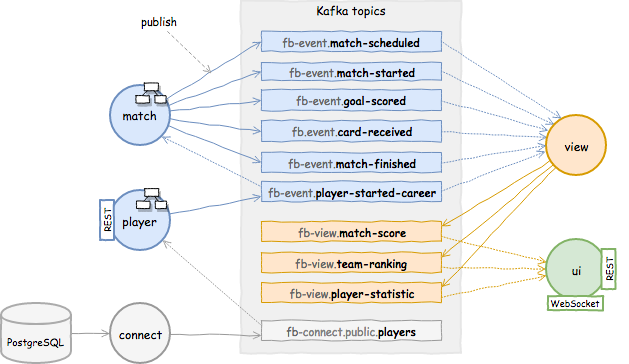
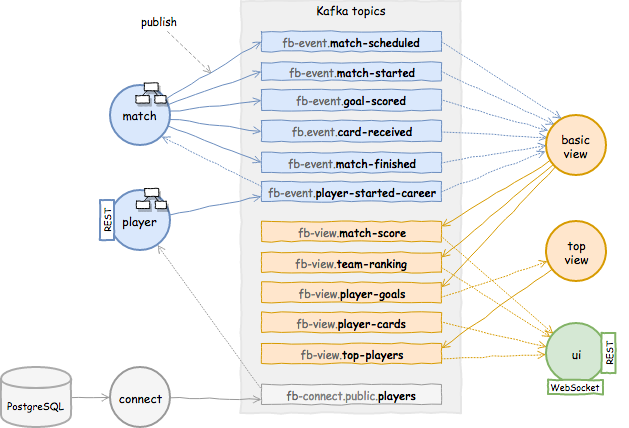
Split 'view' service into 'view-basic' and 'view-top'

diff --git a/football-ui/src/main/resources/static/index.html b/football-ui/src/main/resources/static/index.html
@@ -41,12 +41,12 @@
                 onUpdate(matchScore.matchId, text, 'MatchScore', 30);
             });
             stompClient.subscribe('/topic/TeamRanking', function(payload) {
-                var teamRanking = JSON.parse(payload.body);
-                var text = document.createTextNode(teamRanking.clubId + ' ' + teamRanking.matchesPlayed + ' '
-                    + teamRanking.won + ' ' + teamRanking.drawn + ' ' + teamRanking.lose + ' '
-                    + teamRanking.goalsFor + ' ' + teamRanking.goalsAgainst + ' '
-                    /* + teamRanking.goalsDifference + ' ' + teamRanking.points */);
-                onUpdate(teamRanking.clubId, text, 'TeamRanking', 1000);
+                var team = JSON.parse(payload.body);
+                var text = document.createTextNode(team.clubId + ' ' + team.matchesPlayed + ' '
+                    + team.won + ' ' + team.drawn + ' ' + team.lose + ' '
+                    + team.goalsFor + ' ' + team.goalsAgainst + ' '
+                     + (team.goalsFor - team.goalsAgainst) + ' ' + (team.won * 3 + team.drawn));
+                onUpdate(team.clubId, text, 'TeamRanking', 1000);
             });
             stompClient.subscribe('/topic/PlayerCards', function(payload) {
                 var playerCards = JSON.parse(payload.body);
@@ -59,13 +59,6 @@
                 onUpdateTopPlayers(top10.players, 'TopPlayers');
             });
         });
-    }
-
-    function sendMessage() {
-        var from = document.getElementById('from').value;
-        var text = document.getElementById('text').value;
-        stompClient.send('/app/dashboard', {},
-          JSON.stringify({'from':from, 'text':text}));
     }
 
     function onUpdate(id, statText, type, limit) {
@@ -115,15 +108,15 @@
         <div id="MatchScore"></div>
     </div>
     <div class="column">
-        <h3>Teams</h3>
-        <div id="TeamRanking"></div>
-    </div>
-    <div class="column">
         <h3>Top 10 Scorers</h3>
         <div id="TopPlayers"></div>
     </div>
     <div class="column">
-        <h3>Cards</h3>
+        <h3>Teams [GP W D L F A GD Pts]</h3>
+        <div id="TeamRanking"></div>
+    </div>
+    <div class="column">
+        <h3>Cards [Yellow Red]</h3>
         <div id="PlayerCards"></div>
     </div>
 </div>

diff --git a/football-view-basic/src/main/java/org/djar/football/view/basic/StatisticsBuilder.java b/football-view-basic/src/main/java/org/djar/football/view/basic/StatisticsBuilder.java
@@ -1,4 +1,4 @@
-package org.djar.football.view;
+package org.djar.football.view.basic;
 
 import static org.apache.kafka.common.serialization.Serdes.String;
 import static org.apache.kafka.streams.Consumed.with;
@@ -6,9 +6,8 @@ import static org.apache.kafka.streams.KeyValue.pair;
 import static org.apache.kafka.streams.kstream.Joined.with;
 import static org.djar.football.stream.StreamsUtils.materialized;
 
+import java.util.ArrayList;
 import java.util.Collection;
-import java.util.LinkedList;
-import org.apache.kafka.common.serialization.Serdes;
 import org.apache.kafka.streams.KeyValue;
 import org.apache.kafka.streams.StreamsBuilder;
 import org.apache.kafka.streams.kstream.JoinWindows;
@@ -25,7 +24,6 @@ import org.djar.football.model.view.MatchScore;
 import org.djar.football.model.view.PlayerCards;
 import org.djar.football.model.view.PlayerGoals;
 import org.djar.football.model.view.TeamRanking;
-import org.djar.football.model.view.TopPlayers;
 import org.djar.football.stream.JsonPojoSerde;
 import org.djar.football.util.Topics;
 
@@ -45,13 +43,11 @@ public class StatisticsBuilder {
     public static final String TEAM_RANKING_STORE = "team_ranking_store";
     public static final String PLAYER_GOALS_STORE = "player_goals_store";
     public static final String PLAYER_CARDS_STORE = "player_cards_store";
-    public static final String TOP_SCORERS_STORE = "top_scorers_store";
 
     public static final String TEAM_RANKING_TOPIC = Topics.viewTopicName(TeamRanking.class);
     public static final String MATCH_SCORES_TOPIC = Topics.viewTopicName(MatchScore.class);
     public static final String PLAYER_GOALS_TOPIC = Topics.viewTopicName(PlayerGoals.class);
     public static final String PLAYER_CARDS_TOPIC = Topics.viewTopicName(PlayerCards.class);
-    public static final String TOP_SCORERS_TOPIC = Topics.viewTopicName(TopPlayers.class);
 
     private final JsonPojoSerde<MatchStarted> matchStartedSerde = new JsonPojoSerde<>(MatchStarted.class);
     private final JsonPojoSerde<MatchFinished> matchFinishedSerde = new JsonPojoSerde<>(MatchFinished.class);
@@ -62,7 +58,6 @@ public class StatisticsBuilder {
     private final JsonPojoSerde<TeamRanking> rankingSerde = new JsonPojoSerde<>(TeamRanking.class);
     private final JsonPojoSerde<PlayerGoals> playerGoalsSerde = new JsonPojoSerde<>(PlayerGoals.class);
     private final JsonPojoSerde<PlayerCards> playerCardsSerde = new JsonPojoSerde<>(PlayerCards.class);
-    private final JsonPojoSerde<TopPlayers> top10Serde = new JsonPojoSerde<>(TopPlayers.class);
 
     private final StreamsBuilder builder;
 
@@ -123,7 +118,7 @@ public class StatisticsBuilder {
         // new key: clubId
         KStream<String, TeamRanking> rankingStream = finalScoreStream
                 .flatMap((clubId, matchScore) -> {
-                    Collection<KeyValue<String, TeamRanking>> result = new LinkedList<>();
+                    Collection<KeyValue<String, TeamRanking>> result = new ArrayList<>(2);
                     result.add(pair(matchScore.getHomeClubId(), matchScore.homeRanking()));
                     result.add(pair(matchScore.getAwayClubId(), matchScore.awayRanking()));
                     return result;
@@ -161,17 +156,5 @@ public class StatisticsBuilder {
 
         KStream<String, PlayerGoals> playerGoalsStream = playerGoalsTable.toStream();
         playerGoalsStream.to(PLAYER_GOALS_TOPIC, Produced.with(String(), playerGoalsSerde));
-
-        buildTop10Scorers(playerGoalsStream);
-    }
-
-    private void buildTop10Scorers(KStream<String, PlayerGoals> playerGoalsStream) {
-        KTable<String, TopPlayers> top10Table = playerGoalsStream
-                // create a single record that includes the top scorers
-                .groupBy((playerId, playerGoals) -> "top10Scorers", Serialized.with(Serdes.String(), playerGoalsSerde))
-                .aggregate(() -> new TopPlayers(10), (playerId, playerStat, top10) -> top10.aggregate(playerStat),
-                    materialized(TOP_SCORERS_STORE, top10Serde));
-
-        top10Table.toStream().to(TOP_SCORERS_TOPIC, Produced.with(String(), top10Serde));
     }
 }

diff --git a/football-view-basic/src/test/java/org/djar/football/view/basic/StatisticsBuilderTest.java b/football-view-basic/src/test/java/org/djar/football/view/basic/StatisticsBuilderTest.java
@@ -1,11 +1,10 @@
-package org.djar.football.view;
+package org.djar.football.view.basic;
 
 import static org.assertj.core.api.Assertions.assertThat;
-import static org.djar.football.view.StatisticsBuilder.MATCH_SCORES_STORE;
-import static org.djar.football.view.StatisticsBuilder.PLAYER_CARDS_STORE;
-import static org.djar.football.view.StatisticsBuilder.PLAYER_GOALS_STORE;
-import static org.djar.football.view.StatisticsBuilder.TEAM_RANKING_STORE;
-import static org.djar.football.view.StatisticsBuilder.TOP_SCORERS_STORE;
+import static org.djar.football.view.basic.StatisticsBuilder.MATCH_SCORES_STORE;
+import static org.djar.football.view.basic.StatisticsBuilder.PLAYER_CARDS_STORE;
+import static org.djar.football.view.basic.StatisticsBuilder.PLAYER_GOALS_STORE;
+import static org.djar.football.view.basic.StatisticsBuilder.TEAM_RANKING_STORE;
 
 import org.apache.kafka.streams.StreamsBuilder;
 import org.apache.kafka.streams.Topology;
@@ -19,7 +18,6 @@ import org.djar.football.model.view.MatchScore;
 import org.djar.football.model.view.PlayerCards;
 import org.djar.football.model.view.PlayerGoals;
 import org.djar.football.model.view.TeamRanking;
-import org.djar.football.model.view.TopPlayers;
 import org.djar.football.test.StreamsTester;
 import org.junit.After;
 import org.junit.Before;
@@ -28,16 +26,13 @@ import org.junit.Test;
 public class StatisticsBuilderTest {
 
     private StreamsTester tester;
-    private StatisticsBuilder stats;
 
     @Before
     public void setUp() {
         tester = new StreamsTester(getClass().getName());
 
         StreamsBuilder streamsBuilder = new StreamsBuilder();
-
-        stats = new StatisticsBuilder(streamsBuilder);
-        stats.build();
+        new StatisticsBuilder(streamsBuilder).build();
 
         Topology topology = streamsBuilder.build();
         tester.setUp(topology);
@@ -106,13 +101,6 @@ public class StatisticsBuilderTest {
         assertThat(dDarylMurphyGoals.getGoals()).isEqualTo(1);
         assertThat(dDarylMurphyCards.getYellowCards()).isEqualTo(0);
         assertThat(dDarylMurphyCards.getRedCards()).isEqualTo(1);
-
-        ReadOnlyKeyValueStore<String, TopPlayers> top10Store = tester.getStore(TOP_SCORERS_STORE);
-        TopPlayers top10Scorers = top10Store.get("top10Scorers");
-        assertThat(top10Scorers.getPlayers().size()).isEqualTo(10);
-        assertThat(top10Scorers.getPlayers().get(0).getGoals()).isEqualTo(3);
-        assertThat(top10Scorers.getPlayers().get(1).getGoals()).isEqualTo(3);
-        assertThat(top10Scorers.getPlayers().get(2).getGoals()).isEqualTo(2);
     }
 
     @After

diff --git a/football-common/src/main/java/org/djar/football/test/StreamsTester.java b/football-common/src/main/java/org/djar/football/test/StreamsTester.java
@@ -13,6 +13,7 @@ import java.nio.file.Files;
 import java.nio.file.Path;
 import java.util.Objects;
 import java.util.Properties;
+import java.util.function.Function;
 import org.apache.kafka.clients.consumer.ConsumerRecord;
 import org.apache.kafka.clients.producer.ProducerRecord;
 import org.apache.kafka.common.serialization.Deserializer;
@@ -28,6 +29,7 @@ import org.apache.kafka.streams.state.KeyValueStore;
 import org.apache.kafka.streams.state.ReadOnlyKeyValueStore;
 import org.apache.kafka.streams.test.ConsumerRecordFactory;
 import org.djar.football.model.event.Event;
+import org.djar.football.model.view.PlayerGoals;
 import org.djar.football.stream.JsonPojoSerde;
 import org.djar.football.util.Topics;
 import org.springframework.util.FileSystemUtils;
@@ -61,17 +63,30 @@ public class StreamsTester {
     }
 
     public <T extends Event> void sendEvents(URL sourceFile, Class<T> eventType) {
-        sendEvents(load(sourceFile, eventType));
+        send(load(sourceFile, eventType));
     }
 
-    public void sendEvents(Event[] events) {
-        ConsumerRecordFactory<String, Event> factory = new ConsumerRecordFactory<>(
-                new StringSerializer(), new JsonPojoSerde<Event>());
-        int eventSeq = 1;
+    public <T> void send(URL sourceFile, Class<T> messageType, String topic, Function<T, String> key) {
+        send(load(sourceFile, messageType), topic, key);
+    }
+
+    private void send(Event[] events) {
+        ConsumerRecordFactory<String, Object> factory = new ConsumerRecordFactory<>(
+                new StringSerializer(), new JsonPojoSerde<>());
 
         for (Event event : events) {
             String topic = Topics.eventTopicName(event.getClass());
             ConsumerRecord<byte[], byte[]> record = factory.create(topic, event.getAggId(), event);
+            testDriver.pipeInput(record);
+        }
+    }
+
+    private <T> void send(T[] messages, String topic, Function<T, String> key) {
+        ConsumerRecordFactory<String, Object> factory = new ConsumerRecordFactory<>(
+                new StringSerializer(), new JsonPojoSerde<>());
+
+        for (T message : messages) {
+            ConsumerRecord<byte[], byte[]> record = factory.create(topic, key.apply(message), message);
             testDriver.pipeInput(record);
         }
     }

diff --git a/football-view-basic/src/main/java/org/djar/football/view/basic/BasicViewApplication.java b/football-view-basic/src/main/java/org/djar/football/view/basic/BasicViewApplication.java
@@ -1,4 +1,4 @@
-package org.djar.football.view;
+package org.djar.football.view.basic;
 
 import org.apache.kafka.streams.KafkaStreams;
 import org.apache.kafka.streams.StreamsBuilder;
@@ -13,11 +13,11 @@ import org.springframework.boot.autoconfigure.SpringBootApplication;
 import org.springframework.context.annotation.Bean;
 
 @SpringBootApplication
-public class ViewApplication {
+public class BasicViewApplication {
 
-    private static final Logger logger = LoggerFactory.getLogger(ViewApplication.class);
+    private static final Logger logger = LoggerFactory.getLogger(BasicViewApplication.class);
 
-    private static final String APP_ID = MicroserviceUtils.applicationId(ViewApplication.class);
+    private static final String APP_ID = MicroserviceUtils.applicationId(BasicViewApplication.class);
 
     @Value("${kafka.bootstrapAddress}")
     private String kafkaBootstrapAddress;
@@ -41,6 +41,6 @@ public class ViewApplication {
 
     public static void main(String[] args) {
         logger.info("Application ID: {}", APP_ID);
-        SpringApplication.run(ViewApplication.class, args);
+        SpringApplication.run(BasicViewApplication.class, args);
     }
 }

diff --git a/football-tests/src/main/java/org/djar/football/tests/DemoApplication.java b/football-tests/src/main/java/org/djar/football/tests/DemoApplication.java
@@ -171,7 +171,7 @@ public class DemoApplication {
         logger.info("*************************************************");
 
         DemoApplication gen = new DemoApplication(fbApp);
-        gen.generateFrom("EFL-Championship-2015-2018.txt");
+        gen.generateFrom("EFL-Championship-2017-2018.txt");
 
         // shutdown only if no exception
         fbApp.shutdown();

diff --git a/README.md b/README.md
@@ -24,13 +24,14 @@ This codebase is trying to apply the idea of [stateful streams processing](https
 - __[football-match](football-match/)__ - REST requests transformation into [events](football-common/src/main/java/org/djar/football/model/event/), input validation with the [domain model](https://github.com/djarza/football-events/tree/master/football-match/src/main/java/org/djar/football/match/domain),
 - __connect__ - Kafka Connect with [Debezium PostgreSQL connector](http://debezium.io/docs/connectors/postgresql/), writes events for insert or update operations on PLAYERS table to a single Kafka topic,
 - __[football-player](football-player/)__ is receiving notifications from __connect__ service and creating only a single [PlayerStartedCareer event](football-common/src/main/java/org/djar/football/model/event/PlayerStartedCareer.java) using [Processor API](https://kafka.apache.org/11/documentation/streams/developer-guide/processor-api.html) (see the [code](football-player/src/main/java/org/djar/football/player/snapshot/DomainUpdater.java)),
-- __[football-view](football-view/)__ - builds the statistics from the events using [Kafka Streams DSL](https://kafka.apache.org/11/documentation/streams/developer-guide/dsl-api.html), it's the main place where streams are created and processed (see [below](#events-and-streams)),
+- __[football-view-basic](football-view-basic/)__ - builds the statistics from the events using [Kafka Streams DSL](https://kafka.apache.org/11/documentation/streams/developer-guide/dsl-api.html), it's the main place where streams are created and processed (see [below](#events-and-streams)),
+- __[football-view-top](football-view-top/)__ - builds the Top 10 Players ranking based on the statistics generated by [football-view-basic](football-view-basic/) and not on the events,
 - __[football-ui](football-ui/)__ - saves the statistics into materialized views (local state stores), exposes them via [REST API](football-ui/src/main/java/org/djar/football/ui/controller/StatisticsController.java) and publishes using [WebSocket](football-ui/src/main/java/org/djar/football/ui/StatisticsKeeper.java).
 
 Additional modules:
 - __[football-common](football-common/)__ - contains some code that is shared among microservices (obviously it's not a good practice for production), especially:
     - [events](football-common/src/main/java/org/djar/football/model/event/) are used by __[football-match](football-match/)__, __[football-player](football-player/)__ and __[football_view](football-view/)__,
-    - [statistics](football-common/src/main/java/org/djar/football/model/view/) - __[football-view](football-view/)__, __[football-ui](football-ui/)__,
+    - [statistics](football-common/src/main/java/org/djar/football/model/view/) - __[football-view-basic](football-view-basic/)__, __[football-view-top](football-view-top/)__, __[football-ui](football-ui/)__,
 - __[football-tests](football-tests/)__ - demo application and integration tests.
 
 
@@ -59,7 +60,7 @@ These events are the source for stream processing. For example, in order to dete
 
 Topics are organized under logical groups as follows:
 - __fb-event.*__ - containing events generated by [football-match](football-match/) and [football-player](football-player/),
-- __fb-view.*__ - statistics produced by [football-view](football-view/),
+- __fb-view.*__ - statistics produced by [football-view-basic](football-view-basic/) and [football-view-top](football-view-top/),
 - __fb-connect.*__ - events from the PostgreSQL connector.
 
 The prefixes above aim to separate the application topics from the internal Kafka Streams and Debezium topics.
@@ -83,7 +84,8 @@ There are only two REST endpoits and both of them are accessed from the outside 
     127.0.0.1 connect
     127.0.0.1 football-match
     127.0.0.1 football-player
-    127.0.0.1 football-view
+    127.0.0.1 football-view-basic
+    127.0.0.1 football-view-top
     127.0.0.1 football-ui
     ```
 2. Build microservices and Docker containers:
